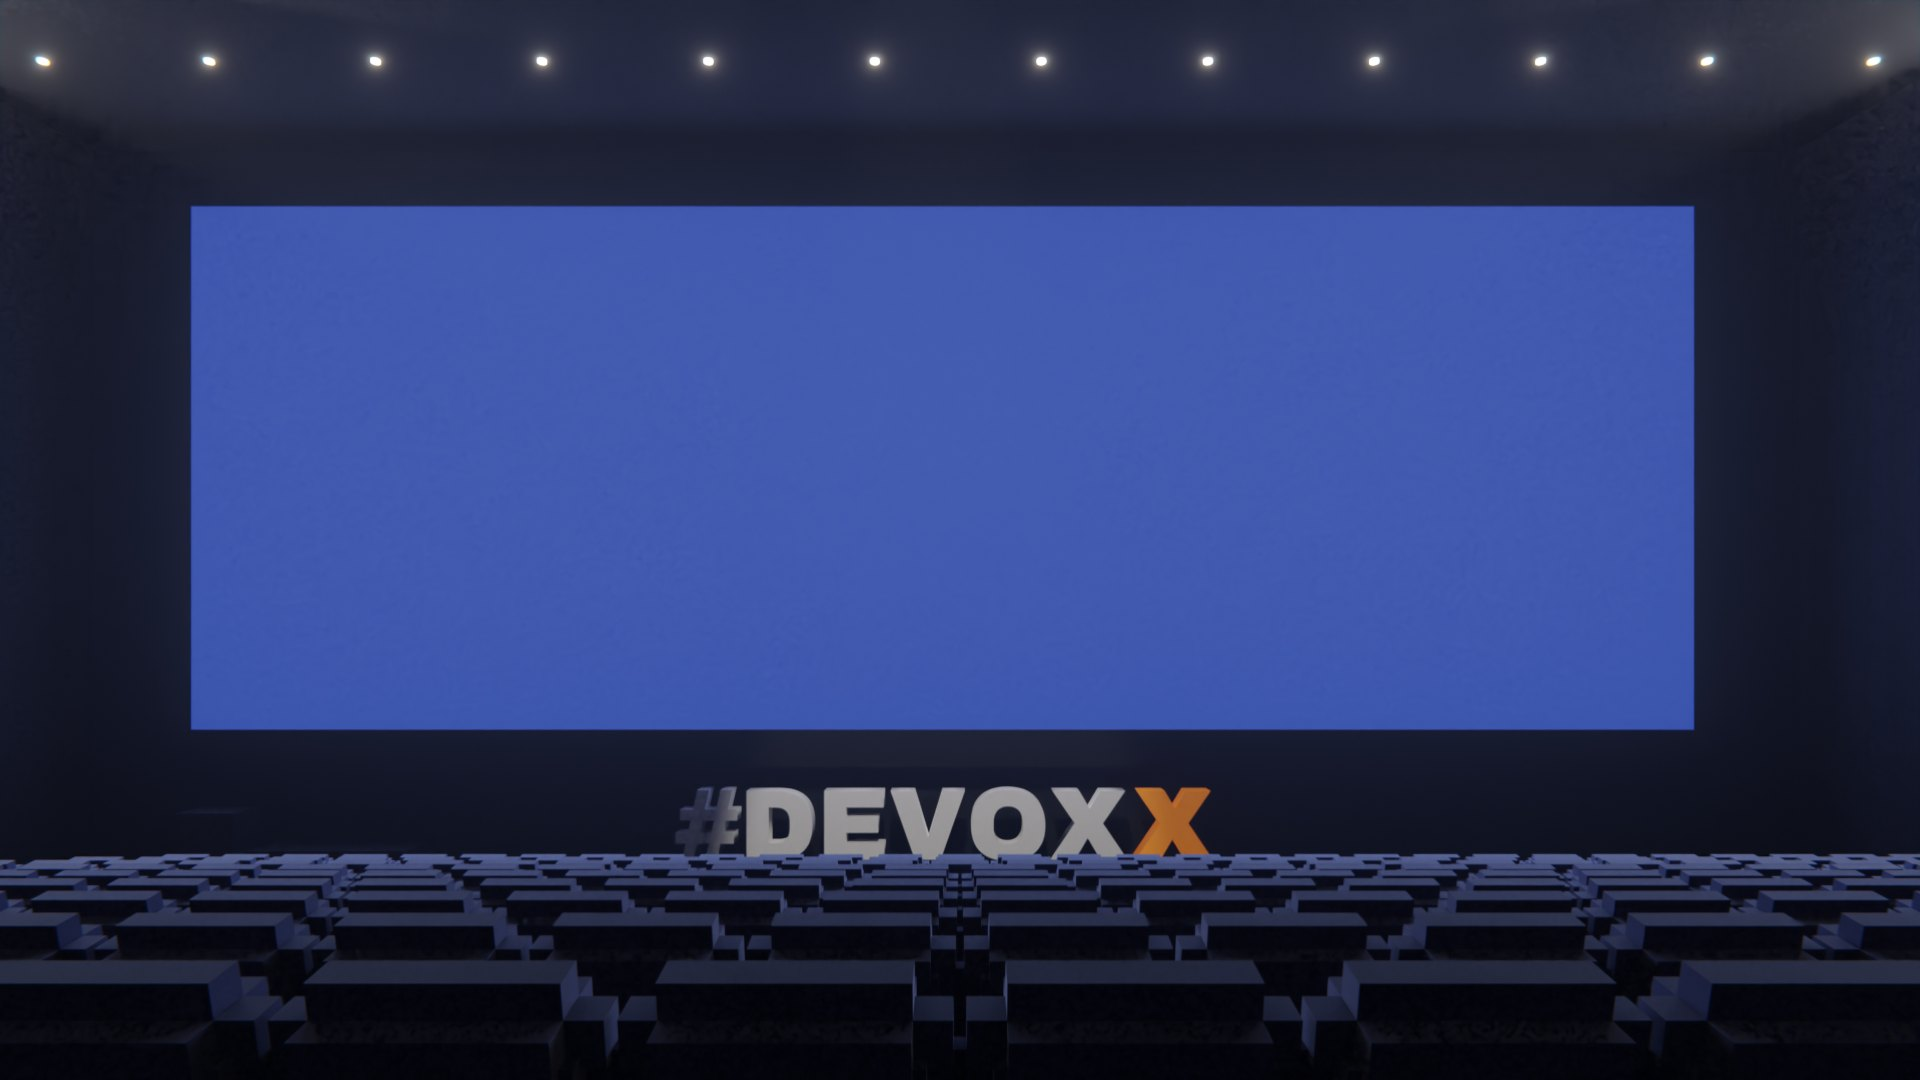
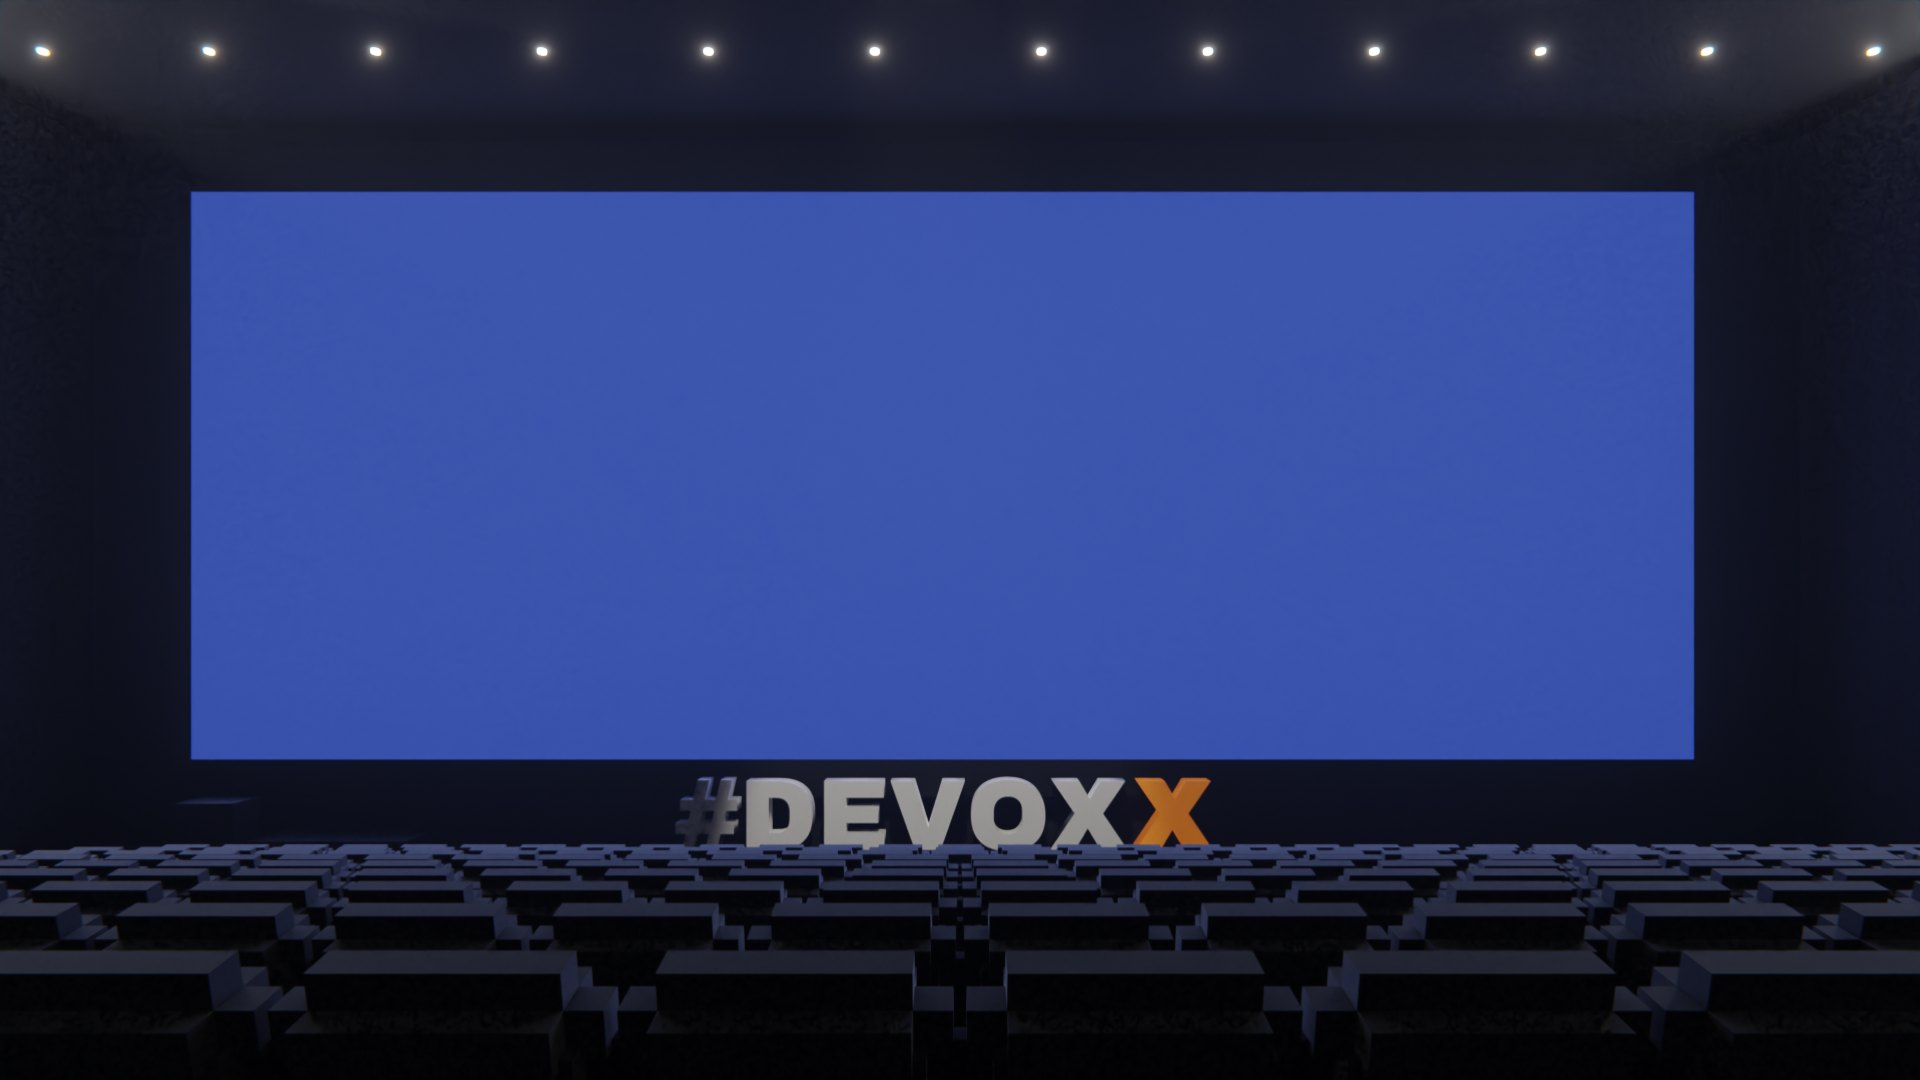
Cinema: review round 14
Taller cinema screen, near-black seats, house lights further down, a glow on the
projected headings; a thin even hall bezel and more screen light on the curtain;
the current slot alone in solid orange, later talks navy with an orange edge;
search shows the sentence the word was found in; 'Read the full summary' after
the short one; phones have one back control, pinned to the foot of the totem.

diff --git a/site/cinema/cinema.js b/site/cinema/cinema.js
@@ -228,7 +228,8 @@ const blob = (t) => [t.title, ...t.speakers.map((s) => s.name), t.room, t.track,
 function why(t, terms) {
   if (terms.every((w) => t.title.toLowerCase().includes(w))) return null;
   const s = t.s || {};
-  const fields = [["Speaker", speakers(t)], ["Mentions", (s.tech || []).join(", ")], ["Topics", (t.keywords || []).join(", ")], ["Summary", s.tldr || ""], ["Abstract", (t.abstract || []).join(" ")]];
+  const fields = [["Speaker", speakers(t)], ["Summary", [s.tldr, ...(s.summary || [])].filter(Boolean).join(" ")], ["Abstract", (t.abstract || []).join(" ")],
+    ["Mentions", (s.tech || []).join(", ")], ["Topics", (t.keywords || []).join(", ")]];
   for (const [name, text] of fields) {
     const lower = text.toLowerCase(), w = terms.find((x) => lower.includes(x));
     if (!w) continue;
@@ -239,8 +240,11 @@ function why(t, terms) {
       const more = items.length - 1;
       return el("span", { class: "why" }, el("b", { text: `${name}: ` }), el("mark", { text: hit }), more > 0 && name !== "Speaker" ? `\u00a0+${more}\u00a0more` : "");
     }
-    const word = text.slice(i).match(/^\S+/)[0].replace(/[,.;:]$/, "");    // the whole matched word, e.g. "Kotlin"
-    return el("span", { class: "why" }, el("b", { text: `${name}: ` }), a > 0 ? "…" : "", el("mark", { text: word }), text.slice(i + word.length, i + word.length + 70));
+    // a sentence from the summary: a few words before the match, the match, the rest of the line
+    const word = text.slice(i).match(/^\S+/)[0].replace(/[,.;:)]$/, "");
+    let from = Math.max(0, text.lastIndexOf(" ", Math.max(0, i - 24)));
+    if (i - from > 30) from = i;
+    return el("span", { class: "why is-quote" }, from > 0 ? "…" : "", text.slice(from, i).trimStart(), el("mark", { text: word }), text.slice(i + word.length, i + word.length + 90));
   }
   return null;
 }
@@ -306,7 +310,8 @@ function programme(tall) {
         if (fill.length && here.length === 1 && t.s && t.s.tldr) c.append(el("span", { class: "gist", text: t.s.tldr }));
         return c;
       }),
-      fill.length ? el("div", { class: "later", text: "Later that day" }) : null, fill.map((t) => card(t, { when: "time" })));
+      fill.length ? el("div", { class: "later", text: "Later that day" }) : null,
+      fill.map((t) => { const c = card(t, { when: "time" }); c.classList.add("is-later"); return c; }));
     put(body, el("div", { class: "slot-head" }, el("b", { text: fTime.format(new Date(slot)) }),
         el("span", { text: tall ? `${here.length} ${here.length === 1 ? "session" : "sessions"}, ${fShort.format(new Date(slot))} Oct`
           : `${fDayLong.format(new Date(slot))}, ${here.length} ${here.length === 1 ? "session. Choose it to read its summary." : "sessions. Pick one to read its summary."}` })),
@@ -362,7 +367,8 @@ function talkScreen(t, tall, onFloor, doorRoom = null) {
       el("div", { class: "who-l", text: speakers(t, true) }),
       s.watchIf ? el("p", { class: "verdict" }, el("b", { text: "Worth it if " }), `${s.watchIf.replace(/^\p{Lu}/u, (c) => c.toLowerCase()).replace(/\.$/, "")}.`) : null,
       !tall && s.tldr ? el("p", { class: "tldr", text: s.tldr }) : null,
-      el("div", { class: "actions" }, watch(), el("button", { class: "btn", type: "button", text: "Back to the programme", onclick: () => goHall() }),
+      !tall && s.tldr && (s.summary || []).length ? el("button", { class: "more", type: "button", text: "Read the full summary", onclick: () => fill("story") }) : null,
+      el("div", { class: "actions" }, watch(), tall ? null : el("button", { class: "btn", type: "button", text: "Back to the programme", onclick: () => goHall() }),
         t.videoId ? null : el("span", { class: "note", text: "No recording yet." })),
       null);
   };

diff --git a/site/cinema/cinema.css b/site/cinema/cinema.css
@@ -245,3 +245,24 @@ button, input, a { font: inherit; color: inherit; }
 .talk.is-tall .tabs.more-r, .talk.is-tall .tabs.more-l { mask-image: none; }
 .talk.is-tall .foot { position: sticky; bottom: -16px; margin: 18px -18px -16px -22px; padding: 10px 18px 14px 22px; background: var(--night); }
 .talk.is-tall .foot button { background: none; border: 0; padding: 0; font-size: 14px; font-weight: 700; color: var(--ink); text-decoration: underline; text-underline-offset: 3px; }
+
+/* round 14 */
+.card { overflow: visible; }                                      /* each line is clamped itself; the grid never squashes a card */
+.prog:not(.is-tall) .cards.scroller[aria-label="Search results"] > .card { min-height: 0; }
+.card .why.is-quote { font-style: normal; }
+.card .why mark, .card:not(.is-off) .why mark { box-shadow: none; text-decoration: none; font-weight: 800; }
+.card .why mark { color: var(--orange); }
+.card:not(.is-off) .why mark { color: var(--deep); }
+.card.is-later:not(.is-off) { background: var(--panel); color: var(--ink); box-shadow: inset 4px 0 0 var(--orange), inset 0 0 0 2px var(--line); }
+.card.is-later:not(.is-off) .room b { color: var(--orange); }
+.card.is-later:not(.is-off) .who { color: var(--muted); opacity: 1; }
+.prog:not(.is-tall) .cards.is-packed > .card.is-later { height: 176px; }
+.prog:not(.is-tall) .cards.is-packed > .card.is-later .title { -webkit-line-clamp: 3; }
+.face.is-projected h2 { text-shadow: 0 0 18px rgba(170, 190, 255, .35); }
+.face.is-projected .btn.is-main { box-shadow: 0 0 22px rgba(246, 146, 30, .35); }
+.tabs .pill:not([aria-pressed="true"]) { color: var(--ink); border-color: #3B4A92; }
+.more { align-self: flex-start; margin-top: 6px; background: none; border: 0; padding: 0; font-size: 18px; font-weight: 700; color: var(--orange); text-decoration: underline; text-underline-offset: 4px; }
+.textlink { font-size: 17px; }
+.prog-foot { padding-top: 6px; position: relative; z-index: 1; }
+.talk.is-tall .foot { margin-top: auto; }
+.talk.is-tall .talk-side { margin-bottom: 18px; }

diff --git a/scripts/blender/build_scene.py b/scripts/blender/build_scene.py
@@ -348,7 +348,7 @@ M = {
     "exitSign": emissive("exitSign", 0x18c060, 4.0),
     "downlight": emissive("downlight", 0xfff1e0, 25.0),
     "bezel": material("bezel", 0x0b0b0e, 0.28, 0.4, bevel=0.006),     # satin black, catching a highlight on its edge
-    "plate": material("plate", 0xf6921e, 0.5, emission=0xe2701a, strength=0.8),   # backlit room-number plate, brand orange
+    "plate": material("plate", 0xf6921e, 0.5, emission=0xd85e14, strength=1.8),   # backlit room-number plate, brand orange
     "plateText": material("plateText", 0x0a0f2e, 0.4),
     "foliage": material("foliage", 0x4a7a3a, 0.55, sheen=0.3),
     "tableFrame": material("tableFrame", 0x111114, 0.4, 0.6),
@@ -362,7 +362,7 @@ M = {
     "posterA": emissive("posterA", 0x3a5cff, 3.0),
     "posterB": emissive("posterB", 0xff6a2a, 3.0),
     "posterC": emissive("posterC", 0xc9d6ff, 3.0),
-    "seat": material("seat", 0x34416e, 0.85, sheen=0.9, noise_bump=0.5, speckle=0.14),
+    "seat": material("seat", 0x15182a, 0.7, sheen=1.0, noise_bump=0.6, speckle=0.18),   # near-black fabric, picked out by rim light
     "seatFrame": material("seatFrame", 0x15161b, 0.5, 0.4),
     "steel": material("steel", 0xb8bcc4, 0.3, 0.9),
     "portal": material("portal", 0xc61d3b, 0.55, emission=0xc61d3b, strength=0.15),
@@ -732,8 +732,8 @@ for r in auditoriums:
         z0 = FH + plate_under(sd) + sd.get("base", 0)
         z1 = FH + plate_under(sd) + sd["height"]
         # as in the 2026 photos, the screen starts above the "#DEVOXX" standing on the stage (letters up to 1.5 m)
-        z0 = max(z0, FH + plate_under(sd) + 2.1)
-        z1 = max(z1, FH + CLEAR - 0.8)                  # and runs up close to the ceiling
+        z0 = max(z0, FH + plate_under(sd) + 1.6)        # clear above the small #DEVOXX on its riser
+        z1 = max(z1, FH + CLEAR - 0.45)                 # and runs up close to the ceiling
         w = sb["h"]
         h = min(z1 - z0, w * 776 / 2048)
         x = sb["x"] + sb["w"] + 0.02 if west else sb["x"] - 0.02
@@ -1135,7 +1135,7 @@ for i, o in enumerate(venue["obstacles"]):
 
 # the programme screen: 16:10 like a laptop panel, thin bezel with a deeper chin, in front of the curtains
 SCREEN = {"x": SX, "y": NORTH - 0.32, "z": 1.7, "w": 3.6, "h": 2.25}
-BEZEL, CHIN = 0.07, 0.18
+BEZEL, CHIN = 0.05, 0.05      # a thin, even frame
 B.box("bezel", {"x": SX - SCREEN["w"] / 2 - BEZEL, "y": SCREEN["y"] - 0.05, "w": SCREEN["w"] + 2 * BEZEL, "h": 0.1},
       SCREEN["z"] - SCREEN["h"] / 2 - CHIN, SCREEN["z"] + SCREEN["h"] / 2 + BEZEL)
 sy_ = SCREEN["y"] - 0.055
@@ -1261,7 +1261,7 @@ for (lx, ly, lz, _) in stair_lamps:
     so = bpy.data.objects.new(spot.name, spot)
     so.location = (lx, ly, lz)
     scene.collection.objects.link(so)
-_hs = area("hall-screen-spill", (SCREEN["x"], SCREEN["y"] - 0.2, SCREEN["z"]), 1.0, 160, (0.4, 0.5, 1.0), rot=(-math.pi / 2, 0, 0))   # facing into the room
+_hs = area("hall-screen-spill", (SCREEN["x"], SCREEN["y"] - 0.2, SCREEN["z"]), 1.0, 420, (0.4, 0.5, 1.0), rot=(-math.pi / 2, 0, 0))   # facing into the room
 _hs.data.shape, _hs.data.size, _hs.data.size_y = "RECTANGLE", SCREEN["w"], SCREEN["h"]
 _hs.visible_camera = False
 # the Hollywood room: an area light under each hexagon panel, a narrow spot in each downlight (they throw the
@@ -1290,13 +1290,13 @@ if _room:
     for (hx, hy, hz, rn) in house_spots:
         if rn == args.room:
             li = bpy.data.lights.new(f"house-{hx:.1f}-{hy:.1f}", "SPOT")
-            li.energy, li.spot_size, li.spot_blend, li.color = 90, math.radians(44), 0.4, (1.0, 0.93, 0.85)   # house lights down
+            li.energy, li.spot_size, li.spot_blend, li.color = 40, math.radians(44), 0.4, (1.0, 0.93, 0.85)   # house lights down
             so = bpy.data.objects.new(li.name, li)
             so.location = (hx, hy, hz)
             scene.collection.objects.link(so)
     if args.room in screens:                                   # the projection's light on the room, from the screen (unseen)
         scr_ = screens[args.room]
-        ob = area("screen-spill", (scr_["x"] + (0.25 if scr_["west"] else -0.25), scr_["y"], scr_["z"]), 1.0, 1100, (0.42, 0.52, 1.0),
+        ob = area("screen-spill", (scr_["x"] + (0.25 if scr_["west"] else -0.25), scr_["y"], scr_["z"]), 1.0, 650, (0.42, 0.52, 1.0),
                   rot=(0, -math.pi / 2 if scr_["west"] else math.pi / 2, 0))     # facing into the room
         ob.data.shape, ob.data.size, ob.data.size_y = "RECTANGLE", scr_["h"], scr_["w"]
         ob.visible_camera = False
